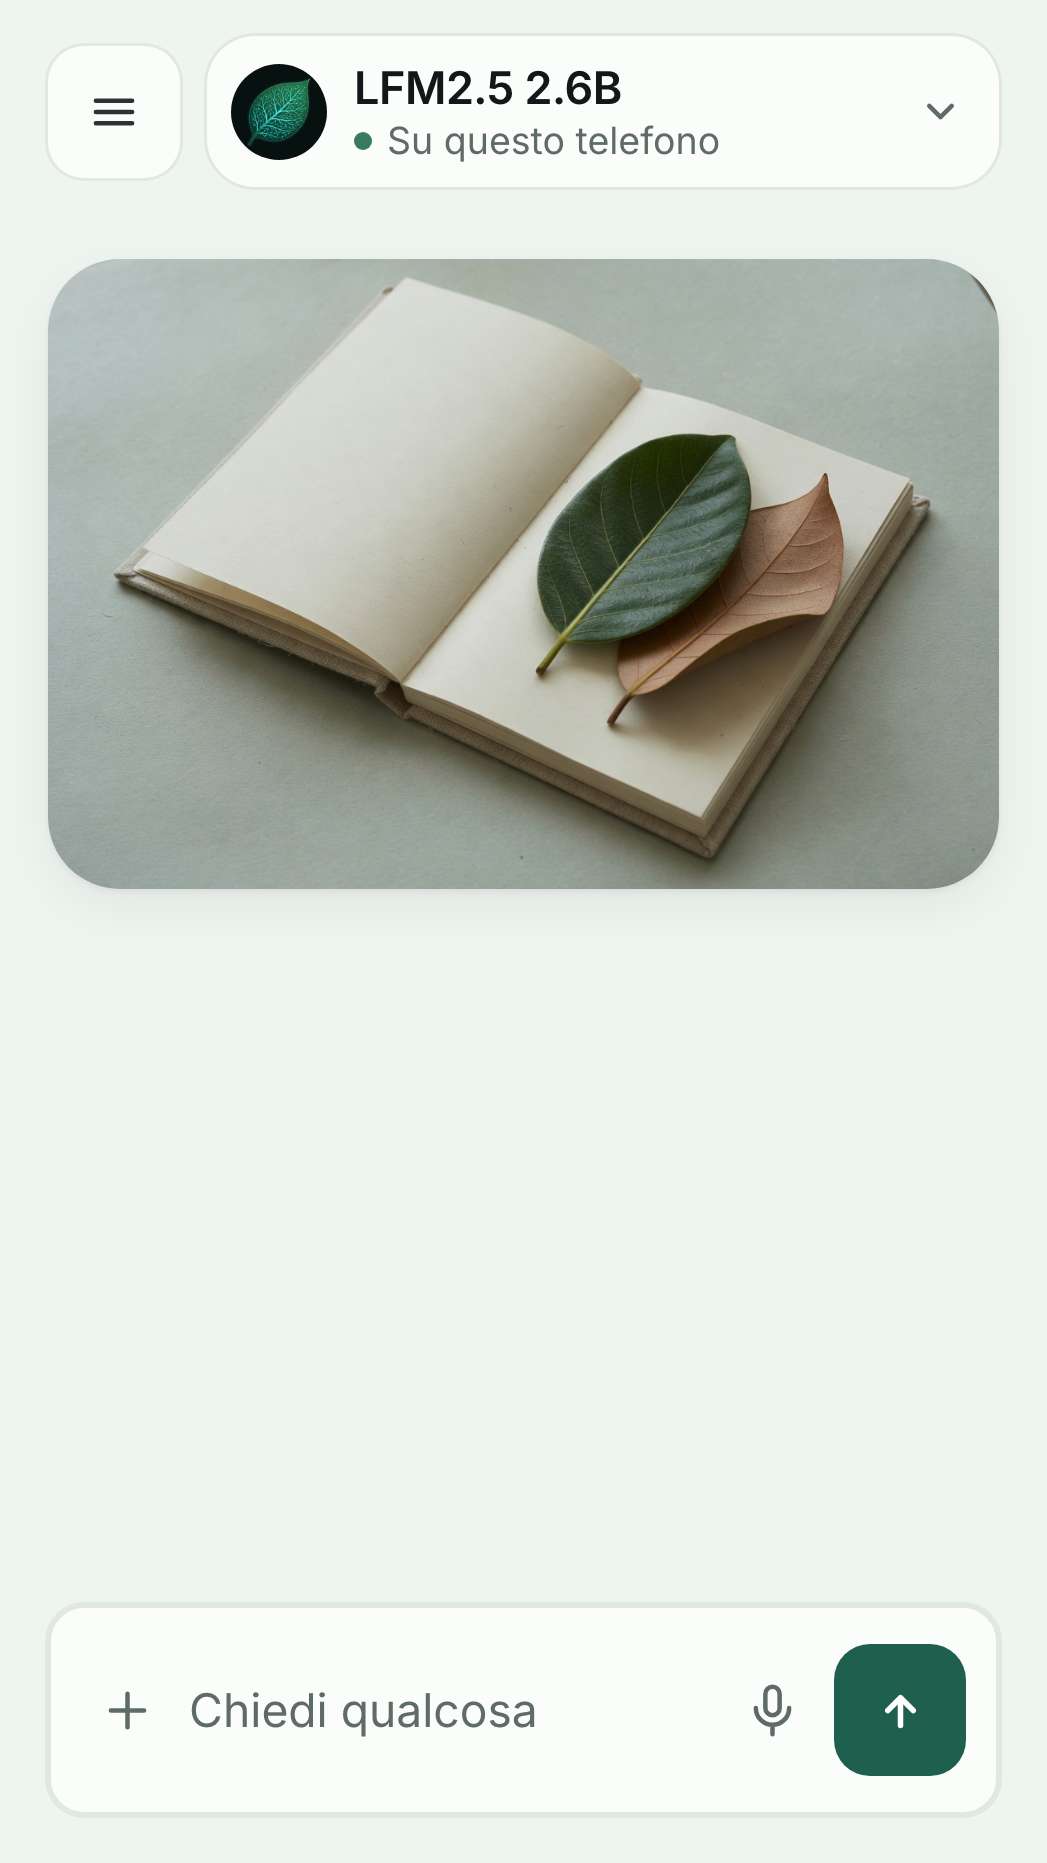
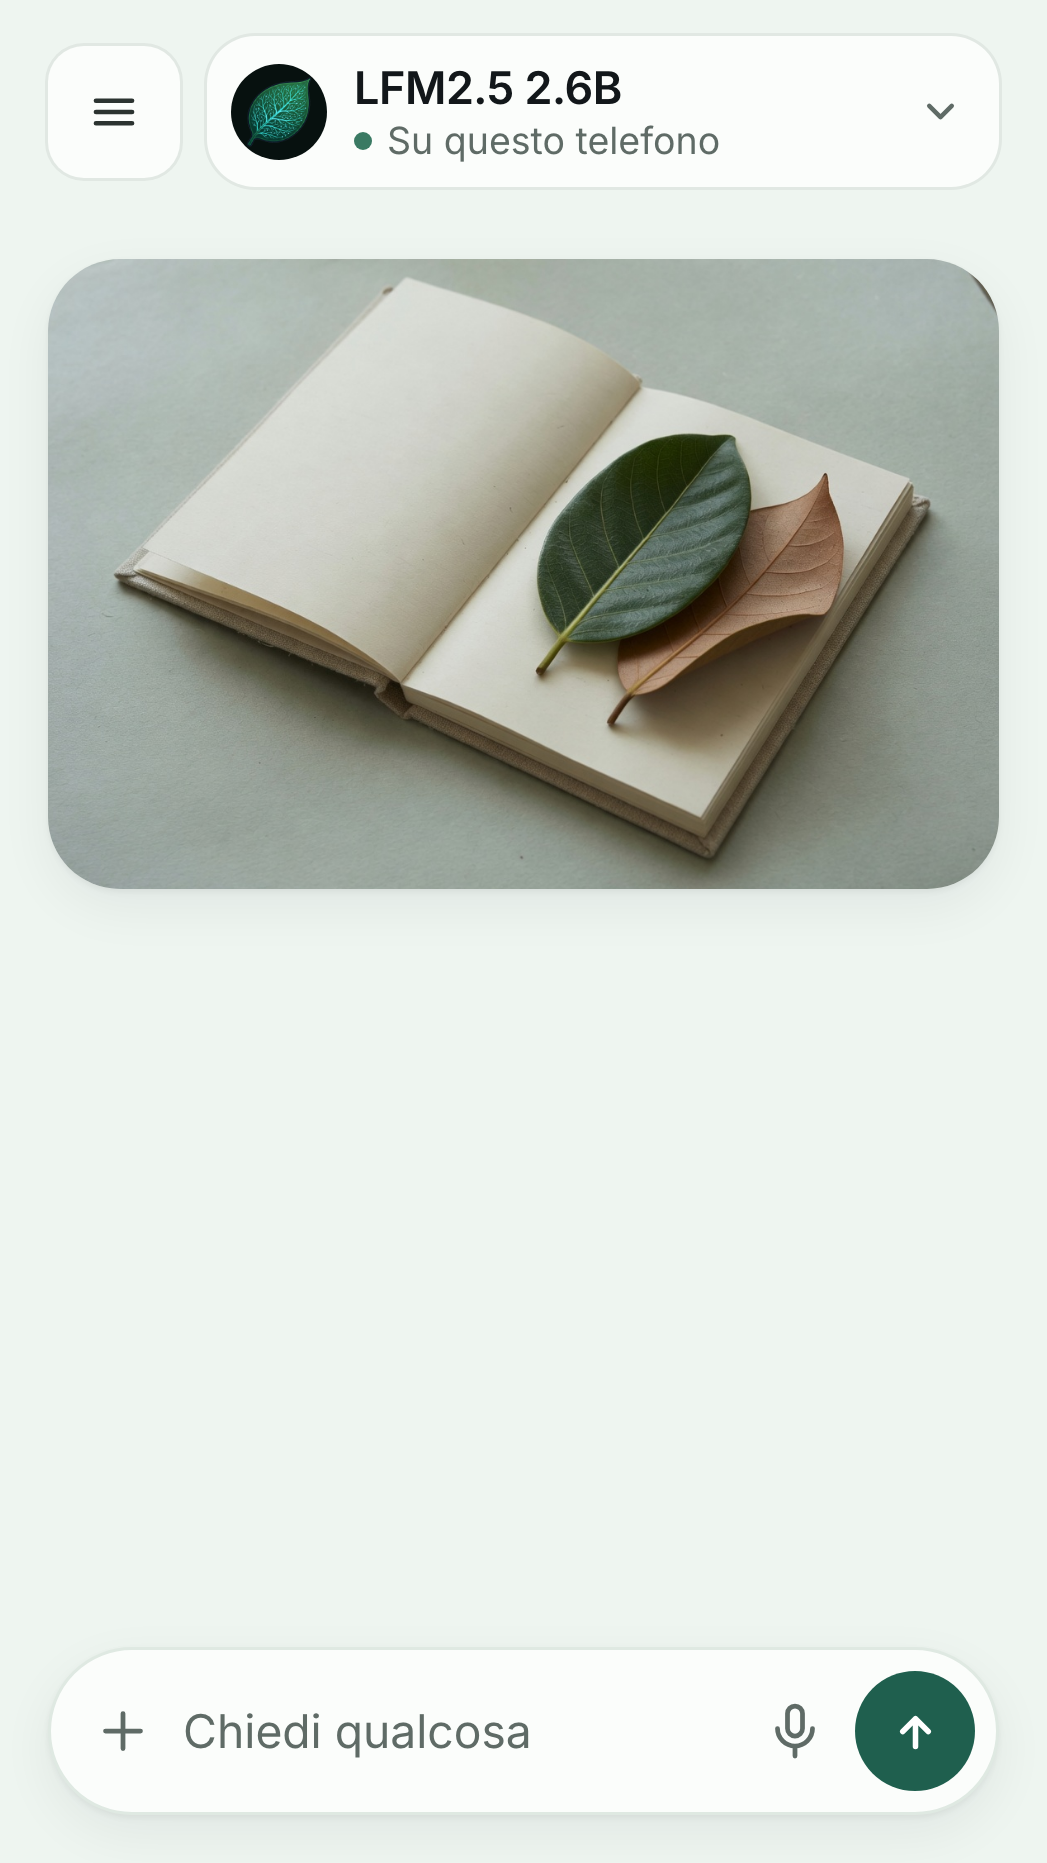
design: the composer is one shape — a capsule with a circle inside
The owner read the input as ugly in form. The cause was two geometries in one
control: a rectangle carrying a rounded square. The three-way strip
(pair-composer-3ways.png: v1 pill with an overflowing circle, v2 rectangle with a
square, v3 capsule with a circle) settles it: the chat input is one capsule, 56
dp, radius 999, with the attach and mic as ghost icons inside and a 40 px
circular filled send — and the attachment chip above it becomes a pill so the two
shapes agree. Form fields in Settings stay rectangles (radius 14), which is what
the reference does. Section 1.3, the component table and 3.1 record the rule and
the reasoning.

repo kalsa-ux, branch ux-2026-09-21, parent 640f5a9

Changed region(s): [[0.703, 0.8717, 0.9475, 0.9651], [0.1834, 0.9028, 0.5196, 0.9651], [0.0917, 0.9028, 0.1528, 0.934]]

diff --git a/docs/design/kalsa-mock-v2.html b/docs/design/kalsa-mock-v2.html
@@ -778,11 +778,12 @@ body{background:var(--page);font-size:15px}
 .app .go{background:transparent;padding:0;font-size:12.5px;color:var(--accent)}
 /* composer: campo retto, non una pillola galleggiante */
 .dock{padding:12px 16px 16px;background:linear-gradient(180deg,rgba(238,245,240,0),var(--page) 42%)}
-.field{border:1px solid var(--line);border-radius:var(--r-field);box-shadow:var(--e1);padding:12px 10px 12px 16px;background:var(--surface)}
+.field{border:1px solid var(--line);border-radius:999px;box-shadow:var(--e2);padding:7px 7px 7px 14px;background:var(--surface);gap:10px}
 .field .ph{font-family:var(--ui);font-size:15.5px;color:var(--ink3)}
-.field .send{width:44px;height:44px;border-radius:var(--r-btn);background:var(--brand);box-shadow:none}
+.field .ic{width:20px;height:20px;color:var(--ink3)}
+.field .send{width:40px;height:40px;border-radius:999px;background:var(--brand);box-shadow:none}
 .field .send.held{background:var(--tint);color:var(--ink3)}
-.chip{border:1px solid var(--line);box-shadow:none;border-radius:8px;font-size:12.5px;padding:6px 10px;background:var(--surface)}
+.chip{border:1px solid var(--line);box-shadow:none;border-radius:999px;font-size:12.5px;padding:6px 11px;background:var(--surface)}
 /* sheets e schermate */
 .sheet{border-radius:var(--r-sheet);padding:20px 16px 16px;background:var(--surface)}
 .sheet h2{font-family:var(--ui);font-size:20px;font-weight:700}

diff --git a/docs/DESIGN-V2.md b/docs/DESIGN-V2.md
@@ -77,7 +77,11 @@ a numeric `fontWeight` beside a custom family is silently ignored on Android.
 - **Space**: 4, 8, 12, 16, 20, 24, 32. Screen gutter **16** (was 14). Card padding **16**. Row height
   **56** (a two-line row is 64). Section gap **24**. Between a group and its label **8**.
 - **Radii**: `button`, `field`, `row`, `iconButton` **14**; `card`, `image` **16**; `sheet` **22**;
-  `chip`, `badge`, `toggle` **999**. Nothing else is rounded, and no element uses a radius above 22.
+  `chip`, `badge`, `toggle` **999**; and **the composer's field is the one capsule (999 at 56 dp)** — the
+  chat input is a single shape, while a form field is a rectangle. The three-way comparison that settled
+  it is `docs/captures/2026-09-22/design-v2/pair-composer-3ways.png`: a capsule with a circle inside
+  reads as one object, a rectangle with a square inside reads as two geometries fighting. Nothing else
+  is rounded above a 22 radius.
 - **Elevation**: two levels. `e1 = 0 0 0 1px rgba(18,23,26,.055)` — the hairline that makes a card a
   card; `e2 = 0 1px 2px rgba(18,23,26,.05), 0 6px 18px rgba(18,23,26,.06)` — only for what floats over
   content (the composer, a sheet, a menu). Shadows on chips, chips of sources and small controls are
@@ -123,7 +127,8 @@ Each entry is the anatomy a coder implements; states are named because a missing
 | **Button, danger** | as secondary with `danger` label and `danger` hairline | pressed, disabled |
 | **Icon button** | 44 px painted in a 48 dp box, radius 14, `surface` + `e1`; ghost variant: no container, `ink3` | default, pressed (`tint`), selected (`tint` + `accent`), disabled |
 | **Chip** | pill, 32 dp, 1 px `line`, `surface`, 12.5 label, optional 18 px leading icon, optional trailing `×` | default, selected (`brand` fill, white label), disabled |
-| **Field** | 52 dp, radius 14, `surface`, 1 px `line`, 15 px `ink`, placeholder `ink3`, optional 20 px leading icon, optional trailing 24 dp action | empty, filled, focused (`accent` hairline + `accent` caret), held (see the composer), error (`danger` hairline) |
+| **Field (forms)** | 52 dp, radius 14, `surface`, 1 px `line`, 15 px `ink`, placeholder `ink3`, optional 20 px leading icon, optional trailing 24 dp action | empty, filled, focused (`accent` hairline + `accent` caret), error (`danger` hairline) |
+| **Composer field** | **one capsule**: 56 dp, radius 999, `surface`, 1 px `line`, `e2`; inside it, left to right: a 40 px ghost attach button, the text (15.5 px sans), a 40 px ghost mic, and a **40 px circular filled send**. A circle inside a capsule, never a square inside a rectangle | empty (placeholder `ink3`), focused, held (the circle goes `tint` + `ink3`, and the hold line says why), stop (the same circle carries a square glyph) |
 | **Search field** | as Field with a leading magnifier and a trailing clear `×` that appears only when non-empty | — |
 | **List row** | 56 dp (64 with a second line), 12/16 padding, optional 20 px leading icon in `accent`, `headline`-weight label, `secondary` second line, optional trailing value in `ink3` or a 14 px chevron | default, pressed (`tint`), selected (`tint` + bold), disabled |
 | **Card / group** | `surface`, radius 16, `e1`, no inner padding of its own; rows inside carry `line` separators that do not reach the left edge if a leading icon is present | — |
@@ -166,10 +171,12 @@ tool rows, sources, mini-app card, stopped by the user (**`Fermato da te`** with
 the `wait` colour at the answer's break), stopped by the engine or the content filter (the same row in
 `danger`), error (the engine's own sentence, verbatim, in a `danger` banner).
 
-**The composer** — a `surface` field with a 1 px `line`, radius 14, 52 dp: the attach icon, the field,
-the mic, and a **44 px filled send**; while a turn runs the same control is a stop square. Above it:
-the attachment chip, and the hold line in `secondary` when sending is refused (**the one invariant:
-a control never invites a tap it cannot honour, and it always says why in one line**). The templates,
+**The composer** — **one capsule**, 56 dp, radius 999, `surface` with a 1 px `line` and `e2`: inside it,
+the 40 px ghost attach button, the text, the 40 px ghost mic, and a **40 px circular filled send** (the
+accent fill is the screen's single filled green; the attachment chip above it is a pill, so the two
+shapes agree). While a turn runs the same circle carries a square glyph. Above the capsule: the
+attachment chip, and the hold line in `secondary` when sending is refused (**the one invariant: a
+control never invites a tap it cannot honour, and it always says why in one line**). The templates,
 research and notes entries live inside the attach sheet, not in a permanent toolbar row.
 
 ### 3.2 The menu (the drawer)
